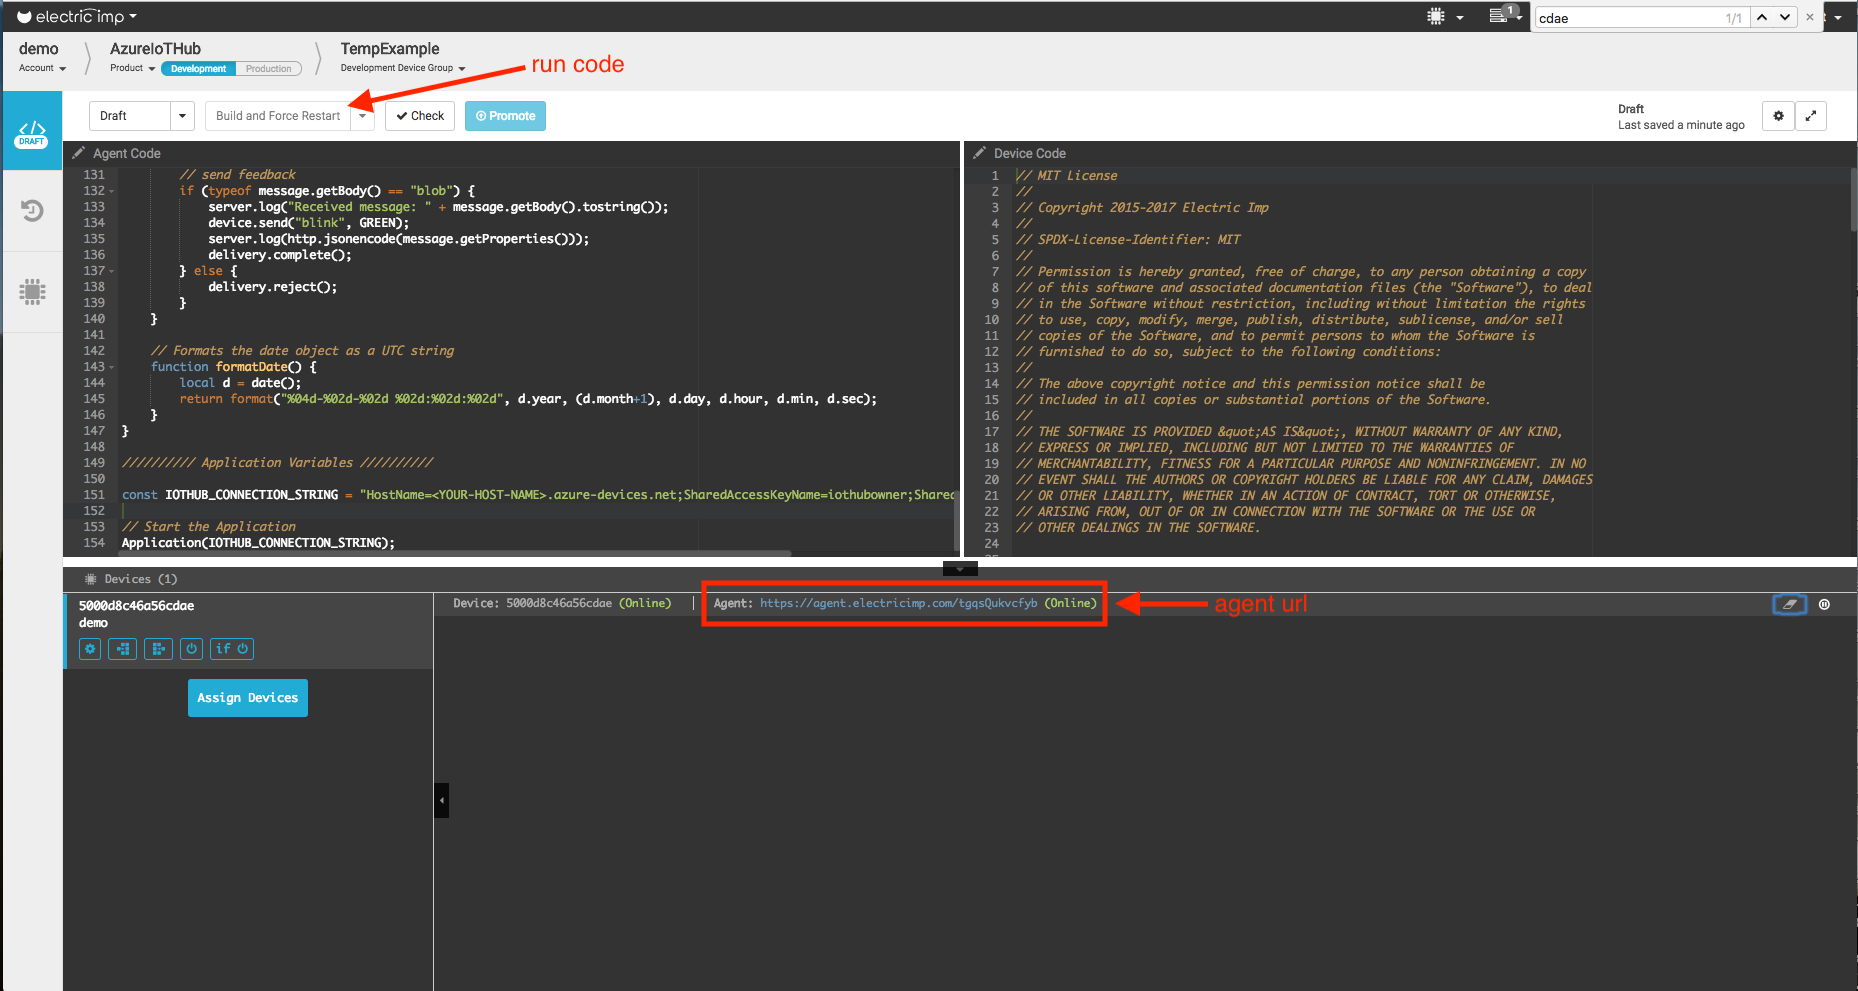
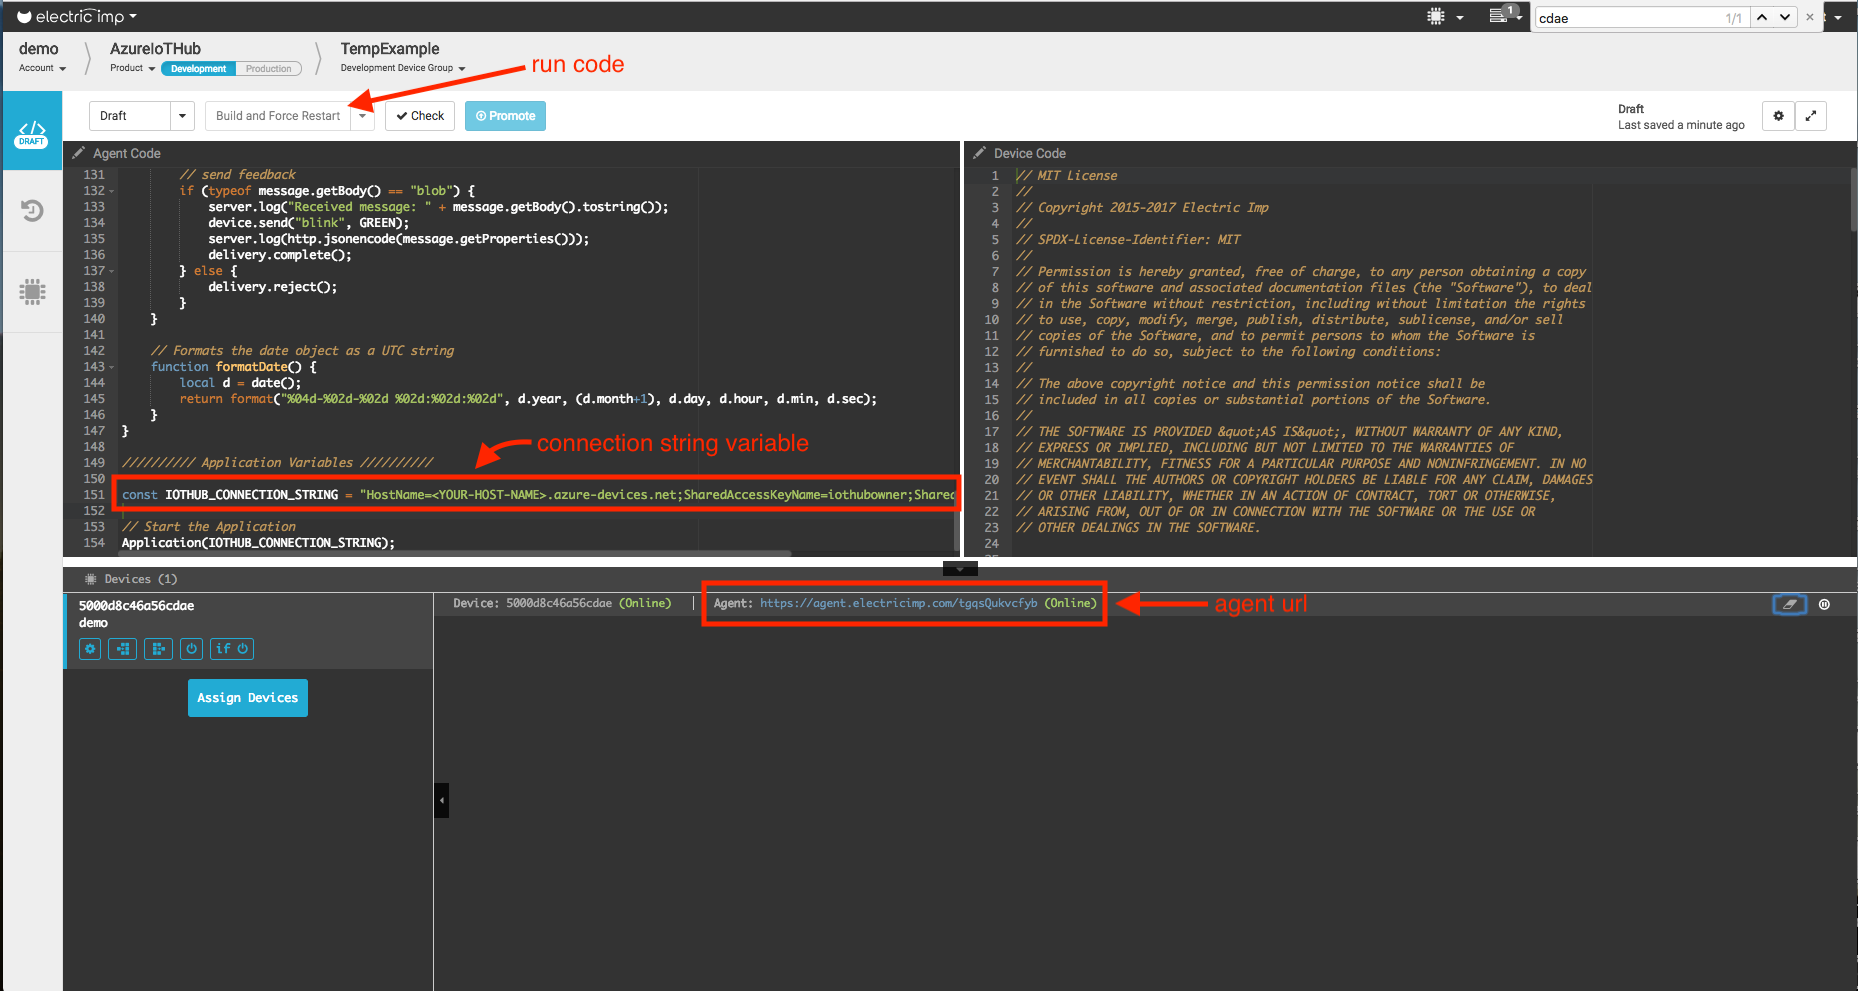
updated broken link

Changed region(s): [[0.0624, 0.4238, 0.5307, 0.5146]]

diff --git a/examples/AutoRegister_StepByStep_Instructions.md b/examples/AutoRegister_StepByStep_Instructions.md
@@ -95,10 +95,10 @@ If you’d like a quick overview of the IDE features please visit the Electric I
 1. In your favorite web browser log into [impCentral](https://preview-impcentral.electricimp.com/login).
 1. Click **Create a Product**.
 ![Click on the Create a Product button in impCentral](./example_imgs/CreateNewProduct.png "Click on the Create a Product button in impCentral")
-1. In the popup, enter a Product name (e.g., **AzureIoTHub**), a Device Group name (e.g., **TempExample**), and then click **Create**.
+1. In the popup, enter a Product name (e.g., **AzureIoTHub**), a Device Group name (e.g., **TempExample**), and then click **Create**.<br>
 ![Enter a Product name and the name of Device Group in the Create Product popup](./example_imgs/CreateProductPopUp.png "Enter a Product name and the name of an Application Workspace in the Create Product popup")<br>A Product defines a new connected product in the Electric Imp impCloud. A Device Group is the place where you develop and test your application software, both the device code and the agent code.
-1. Click **Assign devices**.
-![Click on the Assign Devices link in impCentral's logging pane](./example_imgs/LabeledCodeWindows.png.png "Click on the Assign Devices link in impCentral's logging pane")
+1. Click **Assign devices**.<br>
+![Click on the Assign Devices link in impCentral's logging pane](./example_imgs/LabeledCodeWindows.png "Click on the Assign Devices link in impCentral's logging pane")
 1. In the **Assign Devices** popup, choose your device by locating its device ID, and click **Assign**.
 ![Select your impExplorer and click Assign in the Assign Devices popup](./example_imgs/AssignDevicePopUpLg.png "Select your device and click Assign in the Assign Devices popup")
 1. At the top of the logs pane you can find the agent URL of your device. It will look something like this: **https://agent.electricimp.com/tgqsQukvcfyb**
@@ -151,6 +151,7 @@ In this example we will register the device programmatically by using the Electr
     - [impAccelerator™ Fieldbus Gateway](./IoTHubEnvExample_FieldbusGateway.device.nut)
 ![IDE Model agent URL](./example_imgs/LabeledCodeWindows.png)
 1. In the agent code look for the **IOTHUB_CONNECTION_STRING** variable. Copy and paste your connection string from **Create an IoT Hub resource** step 5.
+![Connection string variables](./example_imgs/ConnectionString.png)
 1. Hit **Build and Force Restart** to save and launch the code.
 ![IDE Build and Force Restart](./example_imgs/BuildAndRestart.png)
 1. As the application runs you will begin to see logs from your device:
